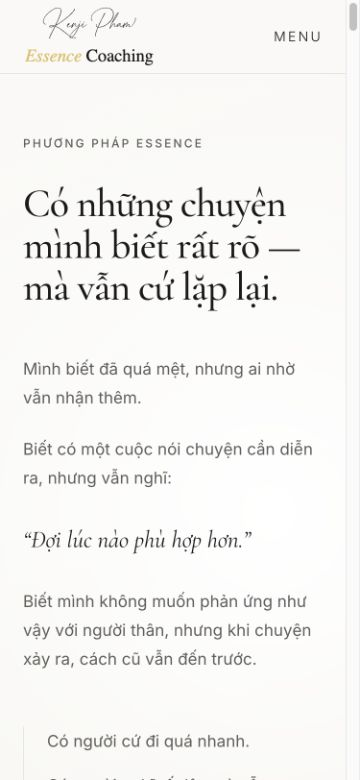
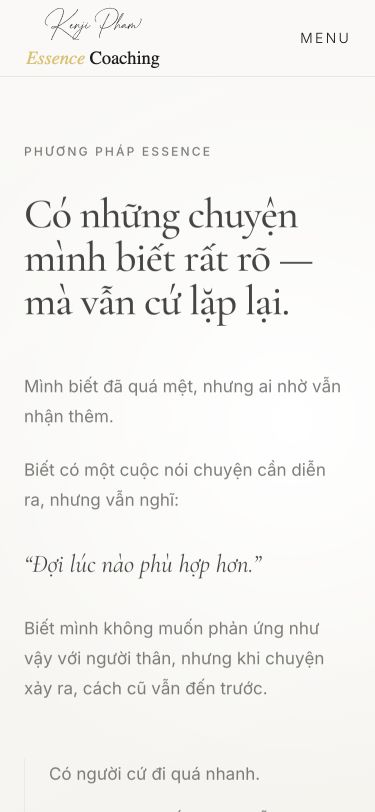
feat: refine phuong-phap atmospheric fields

diff --git a/src/styles/phuong-phap.module.css b/src/styles/phuong-phap.module.css
@@ -3,9 +3,55 @@
 }
 
 .heroSurface {
+  --phuong-phap-hero-field-image: none;
+  position: relative;
+  isolation: isolate;
+  overflow: hidden;
   background:
     radial-gradient(circle at 78% 24%, var(--essence-white-2026) 0, transparent 34%),
     linear-gradient(155deg, var(--essence-ivory-2026) 0%, var(--essence-cream-2026) 100%);
+}
+
+.atmosphereContent {
+  position: relative;
+  z-index: 1;
+}
+
+.heroSurface::before,
+.heroSurface::after,
+.chillAtmosphere::before,
+.chillAtmosphere::after,
+.realityAtmosphere::before,
+.realityAtmosphere::after {
+  position: absolute;
+  z-index: 0;
+  content: "";
+  pointer-events: none;
+}
+
+.heroSurface::before {
+  top: 10%;
+  right: max(-10vw, -10rem);
+  width: min(46vw, 42rem);
+  height: min(68vw, 48rem);
+  opacity: 0.76;
+  border-left: 1px solid var(--essence-border-light-2026);
+  background-image:
+    linear-gradient(90deg, var(--essence-ivory-2026) 0%, transparent 38%),
+    var(--phuong-phap-hero-field-image),
+    radial-gradient(ellipse 88% 68% at 74% 22%, var(--essence-white-2026) 0%, transparent 66%),
+    linear-gradient(148deg, var(--essence-cream-deep-2026) 0%, transparent 58%);
+  background-position: center, right center, center, center;
+  background-repeat: no-repeat;
+  background-size: cover;
+}
+
+.heroSurface::after {
+  top: 0;
+  right: 0;
+  bottom: 0;
+  left: 38%;
+  background: linear-gradient(90deg, var(--essence-ivory-2026) 0%, transparent 52%);
 }
 
 .openingFlow {
@@ -25,13 +71,74 @@
   position: relative;
 }
 
-.movementScene + .movementScene::before {
+.chillAtmosphere,
+.realityAtmosphere {
+  --phuong-phap-chill-field-image: none;
+  position: relative;
+  isolation: isolate;
+  overflow: hidden;
+}
+
+.chillAtmosphere::before {
+  top: 8%;
+  bottom: 7%;
+  left: max(-8vw, -7rem);
+  width: min(46vw, 39rem);
+  opacity: 0.64;
+  border-right: 1px solid var(--essence-border-light-2026);
+  background-image:
+    linear-gradient(90deg, var(--essence-cream-deep-2026) 0%, transparent 72%),
+    var(--phuong-phap-chill-field-image),
+    radial-gradient(ellipse 84% 52% at 76% 14%, var(--essence-white-2026) 0%, transparent 70%),
+    linear-gradient(168deg, transparent 0%, color-mix(in srgb, var(--essence-text-primary-2026) 6%, transparent) 100%);
+  background-position: center, left center, center, center;
+  background-repeat: no-repeat;
+  background-size: cover;
+}
+
+.chillAtmosphere::after {
+  top: 22%;
+  bottom: 20%;
+  left: min(31vw, 26rem);
+  width: 1px;
+  background: color-mix(in srgb, var(--essence-text-primary-2026) 9%, transparent);
+}
+
+.movementScene + .movementScene:not(.realityAtmosphere)::before {
   position: absolute;
   top: 0;
   right: max(1.5rem, calc((100vw - 1120px) / 2));
   left: max(1.5rem, calc((100vw - 1120px) / 2));
   height: 1px;
   content: "";
+  background: var(--essence-border-light-2026);
+}
+
+.realityAtmosphere {
+  --phuong-phap-reality-field-image: none;
+}
+
+.realityAtmosphere::before {
+  top: 7%;
+  bottom: 6%;
+  left: max(-8vw, -7rem);
+  width: min(55vw, 48rem);
+  opacity: 0.68;
+  background-image:
+    linear-gradient(90deg, var(--essence-cream-2026) 0%, transparent 74%),
+    var(--phuong-phap-reality-field-image),
+    radial-gradient(ellipse 90% 72% at 68% 22%, var(--essence-white-2026) 0%, transparent 70%),
+    linear-gradient(135deg, var(--essence-cream-deep-2026) 0%, transparent 64%);
+  background-position: center, left center, center, center;
+  background-repeat: no-repeat;
+  background-size: cover;
+}
+
+.realityAtmosphere::after {
+  top: 17%;
+  bottom: 13%;
+  left: min(35vw, 31rem);
+  width: 1px;
   background: var(--essence-border-light-2026);
 }
 
@@ -89,6 +196,40 @@
   inset: auto 10% 12% 10%;
   height: 1px;
   background: color-mix(in srgb, var(--essence-text-primary-2026) 12%, transparent);
+}
+
+@media (max-width: 767px) {
+  .heroSurface::before {
+    top: auto;
+    right: -34%;
+    bottom: -14rem;
+    width: 120%;
+    height: 29rem;
+    opacity: 0.48;
+  }
+
+  .heroSurface::after {
+    top: 54%;
+    left: 0;
+    background: linear-gradient(180deg, transparent 0%, var(--essence-ivory-2026) 76%);
+  }
+
+  .chillAtmosphere::before,
+  .realityAtmosphere::before {
+    top: auto;
+    right: -24%;
+    bottom: -9rem;
+    left: auto;
+    width: 125%;
+    height: 25rem;
+    opacity: 0.4;
+    border: 0;
+  }
+
+  .chillAtmosphere::after,
+  .realityAtmosphere::after {
+    display: none;
+  }
 }
 
 @media (prefers-reduced-motion: reduce) {

diff --git a/src/pages/phuong-phap.tsx b/src/pages/phuong-phap.tsx
@@ -139,9 +139,9 @@ export default function PhuongPhapPage() {
 
       <main className={`${styles.page} overflow-x-clip text-e26-text`}>
         <section className={`${styles.heroSurface} px-6 pb-28 pt-16 md:px-8 md:pb-40 md:pt-24 lg:px-12 lg:pb-48 lg:pt-28`}>
-          <div className="mx-auto grid max-w-[1180px] items-start gap-20 lg:grid-cols-12 lg:gap-14">
+          <div className={`${styles.atmosphereContent} mx-auto max-w-[1180px]`}>
             <div
-              className={`${styles.reveal} lg:col-span-7 lg:pt-12`}
+              className={`${styles.reveal} max-w-[720px] lg:pt-12`}
               data-phuong-phap-reveal
             >
               <EssenceUtility as="p" className="mb-8 md:mb-10">
@@ -190,13 +190,6 @@ export default function PhuongPhapPage() {
                   Một cách sống cũ đang âm thầm lựa chọn thay mình.
                 </EssenceAnchor>
               </div>
-            </div>
-
-            <div
-              className={`${styles.reveal} mx-auto w-full max-w-[430px] lg:col-span-5 lg:mx-0 lg:max-w-none lg:pt-20`}
-              data-phuong-phap-reveal
-            >
-              <PhuongPhapImageSlot ratio="portrait" />
             </div>
           </div>
         </section>
@@ -299,8 +292,8 @@ export default function PhuongPhapPage() {
         </div>
 
         <div className={styles.movementFlow}>
-          <section className={`${styles.movementScene} px-6 py-28 md:px-8 md:py-40 lg:py-48`}>
-            <div className="mx-auto grid max-w-[1120px] items-start gap-16 lg:grid-cols-12 lg:gap-20">
+          <section className={`${styles.movementScene} ${styles.chillAtmosphere} px-6 py-28 md:px-8 md:py-40 lg:py-48`}>
+            <div className={`${styles.atmosphereContent} mx-auto grid max-w-[1120px] items-start gap-16 lg:grid-cols-12 lg:gap-20`}>
               <div
                 className={`${styles.reveal} lg:col-span-5`}
                 data-phuong-phap-reveal
@@ -311,10 +304,6 @@ export default function PhuongPhapPage() {
                 <EssenceAnchor as="h2" className="max-w-[480px]">
                   Chill với cảm xúc
                 </EssenceAnchor>
-                <PhuongPhapImageSlot
-                  ratio="editorial"
-                  className="mx-auto mt-16 max-w-[390px] md:mt-24 lg:mx-0"
-                />
               </div>
 
               <div
@@ -460,17 +449,10 @@ export default function PhuongPhapPage() {
             </div>
           </section>
 
-          <section className={`${styles.movementScene} px-6 py-28 md:px-8 md:py-40 lg:py-48`}>
-            <div className="mx-auto grid max-w-[1120px] items-start gap-20 lg:grid-cols-12 lg:gap-20">
+          <section className={`${styles.movementScene} ${styles.realityAtmosphere} px-6 py-28 md:px-8 md:py-40 lg:py-48`}>
+            <div className={`${styles.atmosphereContent} mx-auto grid max-w-[1120px] items-start gap-20 lg:grid-cols-12 lg:gap-20`}>
               <div
-                className={`${styles.reveal} order-2 lg:order-1 lg:col-span-5 lg:pt-44`}
-                data-phuong-phap-reveal
-              >
-                <PhuongPhapImageSlot ratio="portrait" className="mx-auto max-w-[430px] lg:mx-0" />
-              </div>
-
-              <div
-                className={`${styles.reveal} order-1 lg:order-2 lg:col-span-7`}
+                className={`${styles.reveal} lg:col-start-6 lg:col-span-7`}
                 data-phuong-phap-reveal
               >
                 <EssenceUtility variant="numeral" as="p" className="mb-8">
